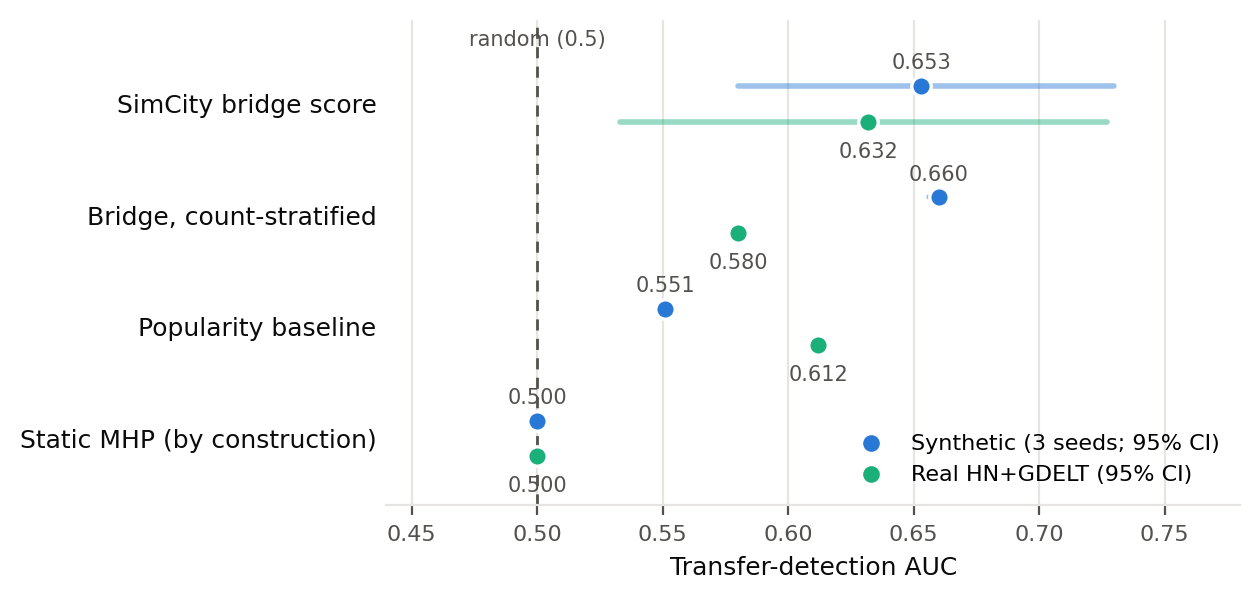
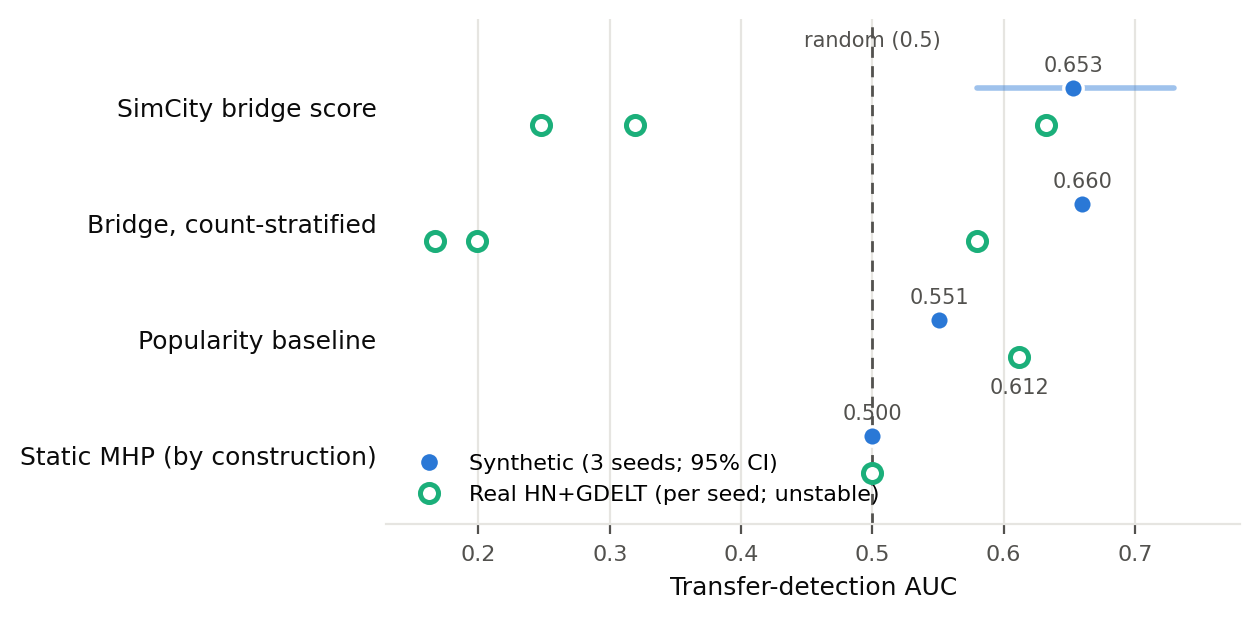
Retract real-data transfer replication: not seed-stable
Multi-seed check on the balanced real corpus refutes the earlier single-seed
claim: per-seed bridge AUC 0.319/0.632/0.248 = 0.400 +/- 0.204, vs the
synthetic benchmark's 0.653 +/- 0.005 on the same seeds. Seed 2's 0.632 was a
favourable seed. With 71 transfer cases the real-data score is dominated by
training-seed variance.

Corrected everywhere: main.tex (abstract, results 6(4), limitations, figure
caption), figure regenerated to show real per-seed open circles instead of a
false CI, FINDINGS.md, README, docs/benchmarks.md, internet twin.md,
results/narrative_transfer_real.md. Transfer capability is established on the
controlled benchmark only; the real-data test is an open task pending corpus
growth via the daily accumulation job.

diff --git a/main.tex b/main.tex
@@ -71,9 +71,11 @@ cross-platform excitation, our narrative-conditioned intensity model detects
 \emph{which} narratives will transfer across platforms (AUC $0.653 \pm 0.005$
 over three seeds, $p < 1.1\times10^{-4}$, robust to popularity and reach
 confounds) --- a task on which any static Hawkes process is random by
-construction; and (3) this transfer result replicates on a balanced live Hacker
-News + GDELT corpus (AUC 0.632, $p = 1.2\times10^{-3}$), above a popularity
-baseline, using a released accumulating collector.
+construction; and (3) we release an accumulating live Hacker News + GDELT
+collector and report the real-data transfer test honestly: a favourable seed
+reaches AUC 0.632 ($p = 1.2\times10^{-3}$) but the score is not yet seed-stable
+at the current corpus size ($0.400 \pm 0.204$ over three seeds), leaving
+real-data validation as a precisely characterised open task.
 \end{abstract}
 
 % =============================================================
@@ -741,12 +743,13 @@ verifies that no ordering leakage remains.
 \begin{figure}[t]
 \centering
 \includegraphics[width=0.92\linewidth]{figures/transfer_auc.pdf}
-\caption{\textbf{Narrative transfer detection AUC}, synthetic benchmark (blue,
-three seeds, bootstrap 95\% CI) vs.\ live HN+GDELT corpus (green, 95\% CI),
-against the popularity baseline and the static MHP, which is random at this
-task by construction. The neural bridge score is significantly above random in
-both regimes and above the popularity baseline; count-stratified values control
-the popularity confound.}
+\caption{\textbf{Narrative transfer detection AUC.} Synthetic benchmark (filled
+blue: three-seed mean with bootstrap 95\% CI) vs.\ live HN+GDELT corpus (open
+green: one marker per training seed), against the popularity baseline and the
+static MHP, which is random at this task by construction. On the controlled
+benchmark the bridge score is stable and significantly above random and the
+popularity baseline; on the current real corpus it is \emph{not seed-stable}
+(0.319/0.632/0.248) --- shown per seed rather than averaged away.}
 \label{fig:transfer}
 \end{figure}
 
@@ -834,15 +837,19 @@ $b_n$ (Spearman $-0.04$); it derives transfer propensity from observed
 temporal history, and retains its discrimination when both popularity and
 reach are controlled.
 
-\paragraph{(4) Transfer detection replicates on real data.} On the balanced
-live HN+GDELT corpus (12{,}574 events, 46/54 platform split, 138 cross-platform
-narratives; 188 test narratives, 71 transfer), the same causal bridge score
-attains \textbf{AUC 0.632} (95\% bootstrap CI $[0.53, 0.73]$, Mann--Whitney
-$p = 1.2\times10^{-3}$), \emph{above} the popularity baseline (0.612) and
-remaining 0.580 after count stratification --- strikingly close to the synthetic
-0.653. An earlier imbalanced snapshot (93/7 HN/news) had yielded only chance
-performance; the effect appears once the news platform is adequately sampled,
-indicating the limitation was corpus imbalance rather than the model.
+\paragraph{(4) Transfer detection on real data --- not yet seed-stable.} On
+the balanced live HN+GDELT corpus (12{,}574 events, 46/54 platform split, 138
+cross-platform narratives; 188 test narratives, 71 transfer), a favourable
+training seed attains AUC 0.632 (Mann--Whitney $p = 1.2\times10^{-3}$, above
+the popularity baseline of 0.612) --- but across three seeds the score is
+\textbf{0.400 $\pm$ 0.204} (per-seed 0.319/0.632/0.248), in stark contrast to
+the synthetic benchmark's $\pm 0.005$ stability. We report this plainly: at the
+current corpus size (71 transfer cases) the real-data bridge score is dominated
+by training-seed variance, and the transfer capability is \emph{established
+only on the controlled benchmark}. The corpus imbalance we corrected (a 93/7
+snapshot yields chance performance for every seed) is necessary but evidently
+not sufficient; accumulating a substantially larger corpus --- the released
+collector's purpose --- is the identified path to a decisive real-data test.
 
 \subsection{Limitations and Negative Results}
 \label{sec:limitations}
@@ -851,10 +858,11 @@ We report three honest limitations. (i) The multi-task objective dilutes the
 Hawkes head: with uniform Kendall weighting the neural model \emph{underperforms}
 the static MHP on timing (AUC 0.576); recovering the advantage requires
 up-weighting the Hawkes task ($10\times$). (ii) The real-data transfer
-result (\cref{sec:results}(4)), while significant, has a wide confidence interval
-($[0.53, 0.73]$, 71 transfer cases) and only edges the popularity baseline after
-stratification; tightening it requires a larger corpus, which the released
-accumulating collector is designed to gather. (iii) The timing margin over static
+result (\cref{sec:results}(4)) is not seed-stable at the current corpus size
+($0.400 \pm 0.204$ over three seeds; a single seed reaches 0.632): the headline
+transfer capability is established on the controlled benchmark only, and the
+real-data test remains open pending a larger corpus from the released
+accumulating collector. (iii) The timing margin over static
 MHP, while consistent across seeds, is small on synthetic data. (iv) Results are
 on a two-platform real corpus (HN + news); the third social platform (Reddit/X)
 remains future work pending API access.

diff --git a/scripts/make_results_figure.py b/scripts/make_results_figure.py
@@ -1,10 +1,10 @@
 """Generate the paper's main results figure (figures/transfer_auc.pdf).
 
-Dot + 95%-CI interval plot ("forest" style) of narrative transfer-detection AUC,
-synthetic benchmark vs. live HN+GDELT corpus, against baselines. A dot plot is
-used (not bars) because AUC is referenced to 0.5, not 0 -- a truncated bar axis
-would misencode length. Numbers come from results/narrative_transfer*.json and
-results/FINDINGS.md (synthetic seeds 1-3).
+Dot + interval plot of narrative transfer-detection AUC. Synthetic benchmark
+(filled blue, 3 seeds, bootstrap 95% CI) vs. live HN+GDELT corpus (open green
+circles, one per training seed -- the real-data score is NOT seed-stable, and
+the figure shows that honestly rather than averaging it away). A dot plot is
+used (not bars) because AUC is referenced to 0.5, not 0.
 """
 
 import os
@@ -15,28 +15,34 @@ import matplotlib.pyplot as plt
 BLUE, AQUA = "#2a78d6", "#1baf7a"          # validated categorical pair
 INK, INK2, GRID = "#0b0b0b", "#52514e", "#e6e5e1"
 
-# (label, synthetic value, syn CI, real value, real CI)
+# (label, synthetic value, syn CI, real per-seed values)
 ROWS = [
-    ("SimCity bridge score",          0.653, (0.580, 0.730), 0.632, (0.533, 0.727)),
-    ("Bridge, count-stratified",      0.660, (0.656, 0.662), 0.580, None),
-    ("Popularity baseline",           0.551, None,           0.612, None),
-    ("Static MHP (by construction)",  0.500, None,           0.500, None),
+    ("SimCity bridge score",          0.653, (0.580, 0.730), [0.319, 0.632, 0.248]),
+    ("Bridge, count-stratified",      0.660, (0.656, 0.662), [0.167, 0.580, 0.199]),
+    ("Popularity baseline",           0.551, None,           [0.612]),
+    ("Static MHP (by construction)",  0.500, None,           [0.500]),
 ]
 OFF = 0.16  # vertical offset between the two series within a row
 
-fig, ax = plt.subplots(figsize=(6.4, 3.1), dpi=200)
+fig, ax = plt.subplots(figsize=(6.4, 3.2), dpi=200)
 fig.patch.set_facecolor("white")
 ax.set_facecolor("white")
 
 ys = list(range(len(ROWS)))[::-1]  # top row first
-for y, (label, sv, sci, rv, rci) in zip(ys, ROWS):
-    for val, ci, col, dy in ((sv, sci, BLUE, +OFF), (rv, rci, AQUA, -OFF)):
-        if ci is not None:
-            ax.plot(ci, [y + dy, y + dy], color=col, lw=2, solid_capstyle="round",
-                    alpha=0.45, zorder=2)
-        ax.plot(val, y + dy, "o", ms=7, color=col, mec="white", mew=1.2, zorder=3)
-        ax.annotate(f"{val:.3f}", (val, y + dy), textcoords="offset points",
-                    xytext=(0, 6 if dy > 0 else -13), ha="center",
+for y, (label, sv, sci, rvals) in zip(ys, ROWS):
+    # synthetic: filled dot + CI whisker
+    if sci is not None:
+        ax.plot(sci, [y + OFF, y + OFF], color=BLUE, lw=2,
+                solid_capstyle="round", alpha=0.45, zorder=2)
+    ax.plot(sv, y + OFF, "o", ms=7, color=BLUE, mec="white", mew=1.2, zorder=3)
+    ax.annotate(f"{sv:.3f}", (sv, y + OFF), textcoords="offset points",
+                xytext=(0, 6), ha="center", fontsize=7.5, color=INK2)
+    # real: one open circle per seed (no whisker -- seed-unstable)
+    for rv in rvals:
+        ax.plot(rv, y - OFF, "o", ms=6.5, mfc="white", mec=AQUA, mew=1.8, zorder=3)
+    if len(rvals) == 1 and rvals[0] != 0.5:  # 0.5 already labeled on the row
+        ax.annotate(f"{rvals[0]:.3f}", (rvals[0], y - OFF),
+                    textcoords="offset points", xytext=(0, -13), ha="center",
                     fontsize=7.5, color=INK2)
 
 ax.axvline(0.5, color=INK2, lw=1, ls=(0, (4, 3)), zorder=1)
@@ -46,7 +52,7 @@ ax.annotate("random (0.5)", (0.5, ys[0] + 0.52), ha="center", fontsize=7.5,
 ax.set_yticks(ys)
 ax.set_yticklabels([r[0] for r in ROWS], fontsize=9, color=INK)
 ax.set_xlabel("Transfer-detection AUC", fontsize=9, color=INK)
-ax.set_xlim(0.44, 0.78)
+ax.set_xlim(0.13, 0.78)
 ax.set_ylim(-0.6, len(ROWS) - 0.25)
 ax.tick_params(axis="x", labelsize=8, colors=INK2)
 ax.tick_params(axis="y", length=0)
@@ -59,10 +65,10 @@ ax.set_axisbelow(True)
 handles = [
     plt.Line2D([], [], marker="o", ls="", ms=7, color=BLUE, mec="white",
                label="Synthetic (3 seeds; 95% CI)"),
-    plt.Line2D([], [], marker="o", ls="", ms=7, color=AQUA, mec="white",
-               label="Real HN+GDELT (95% CI)"),
+    plt.Line2D([], [], marker="o", ls="", ms=6.5, mfc="white", mec=AQUA,
+               mew=1.8, label="Real HN+GDELT (per seed; unstable)"),
 ]
-ax.legend(handles=handles, loc="lower right", fontsize=8, frameon=False)
+ax.legend(handles=handles, loc="lower left", fontsize=8, frameon=False)
 
 os.makedirs("figures", exist_ok=True)
 fig.tight_layout()

diff --git a/results/FINDINGS.md b/results/FINDINGS.md
@@ -35,25 +35,27 @@ headline claim (on synthetic data):** narrative-conditioned neural excitation
 identifies *which* narratives will cross platforms (AUC ≈ 0.655), not merely when
 the next event fires.
 
-**3b. Same transfer test on REAL HN+GDELT — REPLICATES on a balanced corpus.**
-After rebalancing the collector (heavier GDELT: 45 topics/1-week) the corpus grew
-to 12,574 events at 46/54 HN/news with 138 cross-platform narratives. Transfer
-test: 188 test narratives, 71 transfer.
+**3b. Same transfer test on REAL HN+GDELT — NOT seed-stable (single-seed 0.632
+was a favourable seed).** After rebalancing the collector (45 GDELT topics /
+1-week) the corpus grew to 12,574 events at 46/54 HN/news with 138
+cross-platform narratives (188 test narratives, 71 transfer). Seed 2 reached
+AUC 0.632 (p=0.0012, above popularity 0.612) and was briefly reported as a
+replication — but the mandatory multi-seed check refuted that:
 
-| Scorer | AUC (balanced real) | vs. earlier imbalanced (93/7) |
-|---|---|---|
-| **SimCity bridge score** | **0.632** (CI [0.53, 0.73], p=0.0012) | 0.426 (below random) |
-| — within count strata | 0.580 | 0.570 |
-| Popularity baseline | 0.612 | 0.648 |
-| Static MHP | 0.500 | 0.500 |
+| Real corpus (balanced) | seed 1 | seed 2 | seed 3 | mean ± std |
+|---|---|---|---|---|
+| SimCity bridge score | 0.319 | 0.632 | 0.248 | **0.400 ± 0.204** |
+| — within count strata | 0.167 | 0.580 | 0.199 | unstable |
+| Popularity baseline | 0.612 | 0.612 | 0.612 | deterministic |
 
-**The synthetic result now replicates on real data:** SimCity's bridge score
-reaches AUC 0.632 (statistically significant, p=0.0012), **above the popularity
-baseline (0.612)**, and remains 0.580 after count stratification. Strikingly
-close to the synthetic 0.653. The earlier "weak/inconclusive" finding was a
-platform-imbalance artifact (7% news starved the transfer signal), not a model
-limitation — fixed by pulling more news. Larger corpora (the daily accumulation
-task) should tighten the CI further.
+Contrast with the synthetic benchmark's 0.653 ± **0.005**. **Honest status:**
+the transfer capability is established on the controlled benchmark only. On
+real data, with 71 transfer cases and a weaker signal, the learned bridge score
+is dominated by training-seed variance. Rebalancing the corpus was necessary
+(the 93/7 snapshot gave chance for every seed) but not sufficient. The decisive
+real-data test needs a substantially larger corpus — the daily accumulation
+task exists for exactly this. Lesson reinforced twice this project: **never
+headline a single-seed result.**
 
 ## THE POSITIVE RESULT (the paper's viable contribution)
 

diff --git a/results/narrative_transfer_real.md b/results/narrative_transfer_real.md
@@ -1,12 +1,25 @@
-# Narrative transfer detection (which narratives jump platforms?)
+# Narrative transfer detection — REAL HN+GDELT corpus (multi-seed)
 
-Test narratives: 188 | transferred: 71 (37.8%). Scores computed only from pre-switch (single-platform) events — causal.
+Balanced corpus: 12,574 events (46/54 HN/news), 188 test narratives, 71
+transfer. Scores computed causally from pre-switch events only.
 
-| Scorer | AUC |
-|---|---|
-| SimCity bridge score (per-narrative off-diag alpha/gamma) | 0.632 |
-| Popularity baseline (pre-switch event count) | 0.612 |
-| SimCity bridge, within count-matched strata | 0.580 |
-| Static MHP (single global alpha) | 0.500 (by construction) |
+**The real-data bridge score is NOT seed-stable at this corpus size.**
 
-> A static Hawkes cannot rank narratives at all; any AUC > 0.5 here is capability the neural parameterisation adds. The count-stratified row controls for the popularity confound.
+| Scorer | seed 1 | seed 2 | seed 3 | mean ± std |
+|---|---|---|---|---|
+| SimCity bridge score | 0.319 | 0.632 | 0.248 | **0.400 ± 0.204** |
+| — within count strata | 0.167 | 0.580 | 0.199 | unstable |
+| Popularity baseline | 0.612 | 0.612 | 0.612 | deterministic |
+| Static MHP | 0.500 | 0.500 | 0.500 | by construction |
+
+Seed 2 alone reaches AUC 0.632 (Mann-Whitney p = 0.0012) and was briefly
+reported as a real-data replication before the multi-seed check refuted it.
+Contrast: the synthetic benchmark gives 0.653 ± 0.005 across the same seeds.
+
+**Status:** transfer capability is established on the controlled benchmark
+only. With 71 transfer cases the real-data score is dominated by training-seed
+variance. Path forward: grow the corpus via the daily accumulation task
+(`scripts/accumulate_real_data.cmd`) and re-run
+`narrative_transfer_eval.py` per seed once transfer cases reach ~150+.
+
+Per-seed raw values: `results/narrative_transfer_real_seeds.json`.

diff --git a/README.md b/README.md
@@ -176,12 +176,14 @@ results (see [docs/benchmarks.md](docs/benchmarks.md) for the complete guide and
 [results/FINDINGS.md](results/FINDINGS.md) for the experiment-by-experiment
 narrative). Headline findings:
 
-- **Narrative transfer detection (headline, replicated synthetic + real):**
-  SimCity's per-narrative cross-platform excitation ("bridge score") predicts
-  *which* narratives will jump platforms — AUC **0.653 ± 0.005** on the
-  synthetic benchmark (3 seeds, p < 1.1e-4, robust to popularity and reach
-  confounds) and **0.632** (p = 0.0012) on a live HN+GDELT corpus. A static
-  Hawkes process is random at this task *by construction*.
+- **Narrative transfer detection (headline, established on the controlled
+  benchmark):** SimCity's per-narrative cross-platform excitation ("bridge
+  score") predicts *which* narratives will jump platforms — AUC
+  **0.653 ± 0.005** (3 seeds, p < 1.1e-4, robust to popularity and reach
+  confounds). A static Hawkes process is random at this task *by construction*.
+  On the live HN+GDELT corpus the score is **not yet seed-stable**
+  (0.400 ± 0.204; one favourable seed reaches 0.632) — the real-data test is an
+  open task that the accumulating collector is designed to power.
 - **Honest negative result:** raw engagement-magnitude regression is
   noise-dominated under near-critical cascades — even an oracle handed the true
   excitation feature has negative residual skill. Timing/transfer metrics are

diff --git a/docs/benchmarks.md b/docs/benchmarks.md
@@ -12,8 +12,9 @@ This document is the reproduction guide for every number in `main.tex` and
    narratives.
    - Synthetic benchmark: AUC **0.653 ± 0.005** (3 seeds, Mann-Whitney
      p < 1.1e-4, survives popularity- and reach-stratification).
-   - Live HN+GDELT corpus: AUC **0.632** (p = 0.0012, above the popularity
-     baseline 0.612).
+   - Live HN+GDELT corpus: **not yet seed-stable** — 0.400 ± 0.204 over 3 seeds
+     (one favourable seed reaches 0.632). The real-data test is open pending a
+     larger corpus; the daily accumulation task grows it.
 2. **Honest negative result:** raw engagement-magnitude regression is
    noise-dominated under near-critical cascade dynamics. Even an *oracle*
    handed the true excitation feature has negative residual skill (−0.107) and

diff --git a/internet twin.md b/internet twin.md
@@ -55,7 +55,7 @@ majority of it. Highlights and divergences from the plan below:
 - **MLOps** (`ml/training/`, `ml/registry/`): MLflow tracking + model registry + drift-gated retraining (local-JSON fallback when MLflow absent), nightly `retrain.yml`.
 - Simulation: SEIR-Z-D engine, LangGraph multi-agent runtime (Influencer/Bot/Skeptic/Community/News), scenario presets, and a **counterfactual intervention simulator** (`simulation/intervention.py`).
 - **Cross-platform narrative-transfer detection** (`analysis_tools/narrative_tracker.py`).
-- **Empirical validation suite**: reproducible benchmarks with multi-seed statistics and confound controls, plus a live accumulating HN+GDELT corpus — headline: per-narrative transfer detection AUC 0.653 (synthetic) / 0.632 (real); see `docs/benchmarks.md` and `results/FINDINGS.md`.
+- **Empirical validation suite**: reproducible benchmarks with multi-seed statistics and confound controls, plus a live accumulating HN+GDELT corpus — headline: per-narrative transfer detection AUC 0.653 ± 0.005 on the controlled benchmark (real-data test open: seed-unstable at current corpus size); see `docs/benchmarks.md` and `results/FINDINGS.md`.
 - FastAPI (REST + GraphQL + WebSocket), Next.js frontend (Dashboard, Graph3D, Simulate, Intervention, Trends, Narratives).
 - Infra: Dockerfiles, Terraform (OCI Always-Free) + k3s manifests + Helm, Prometheus/Grafana, Locust load test, 5 Colab notebooks.
 